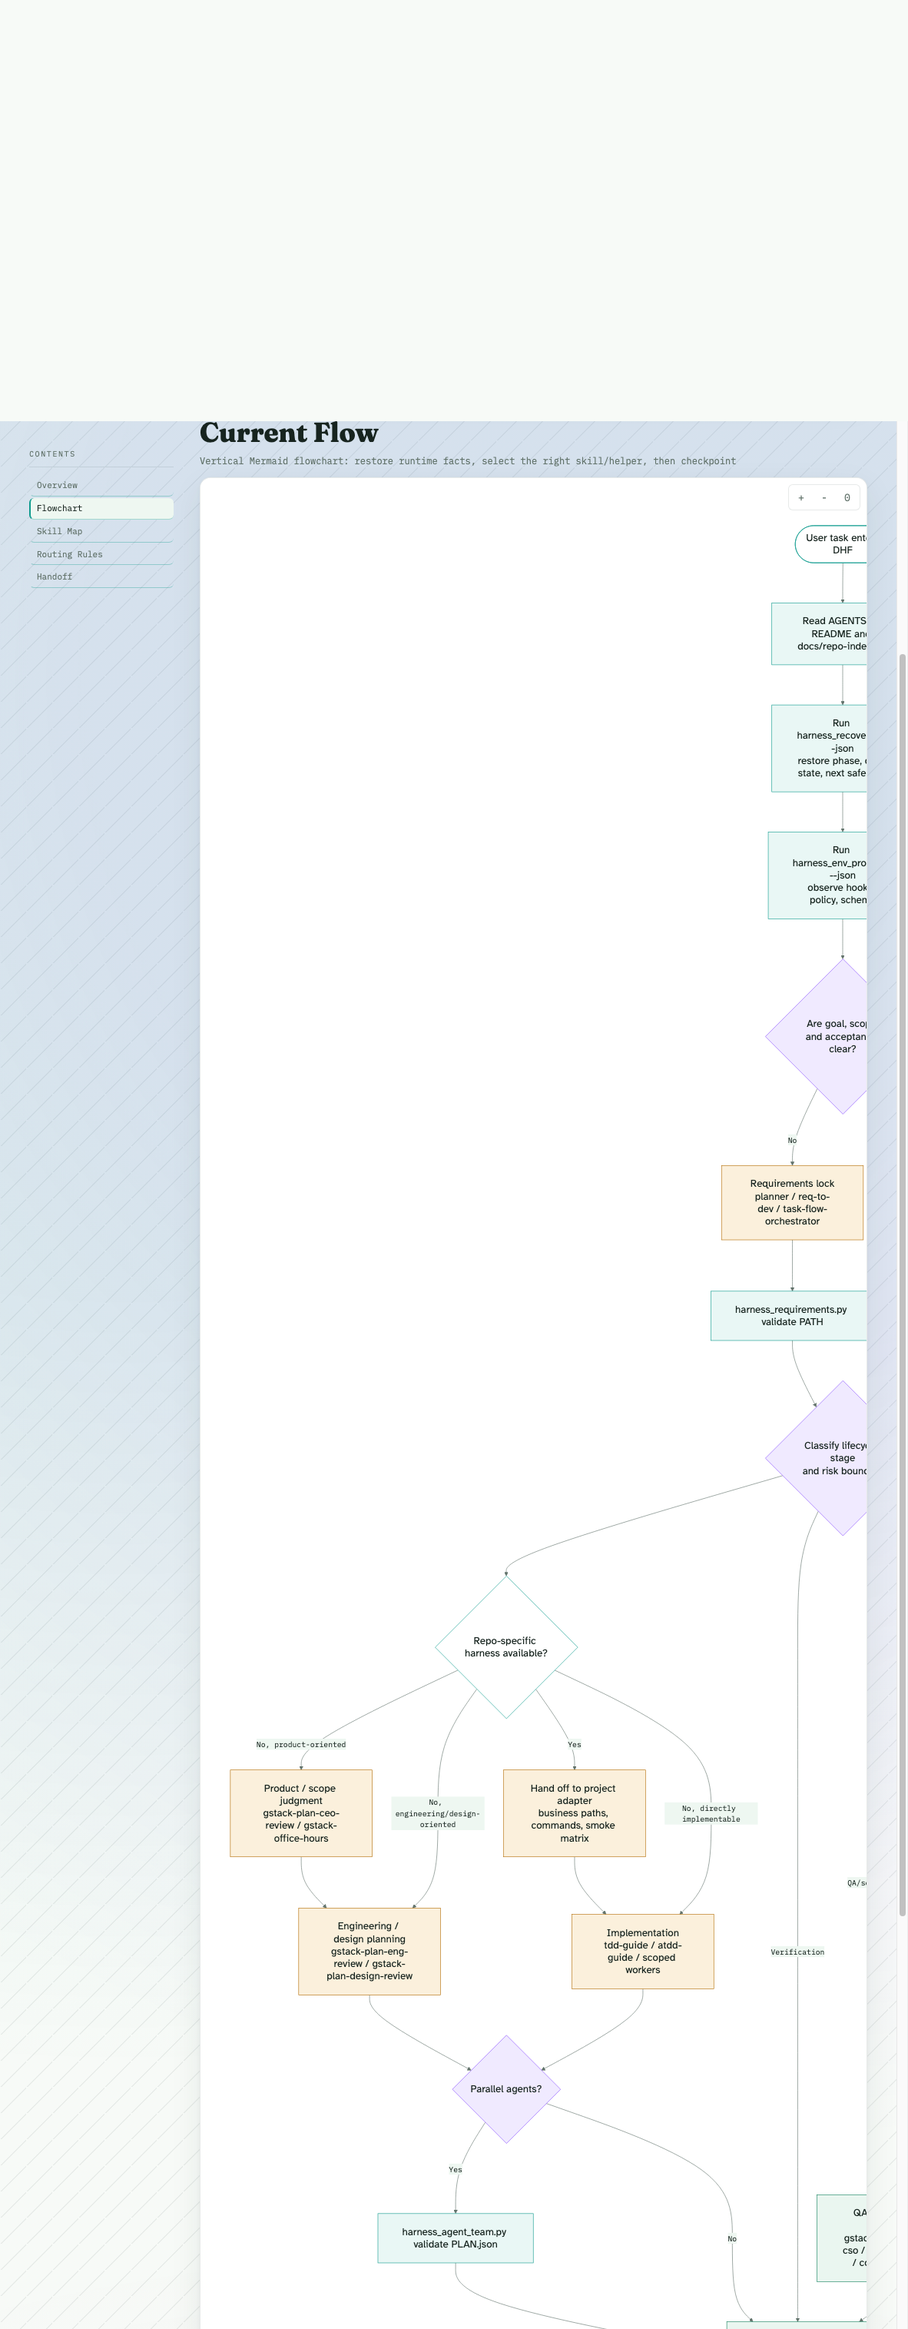
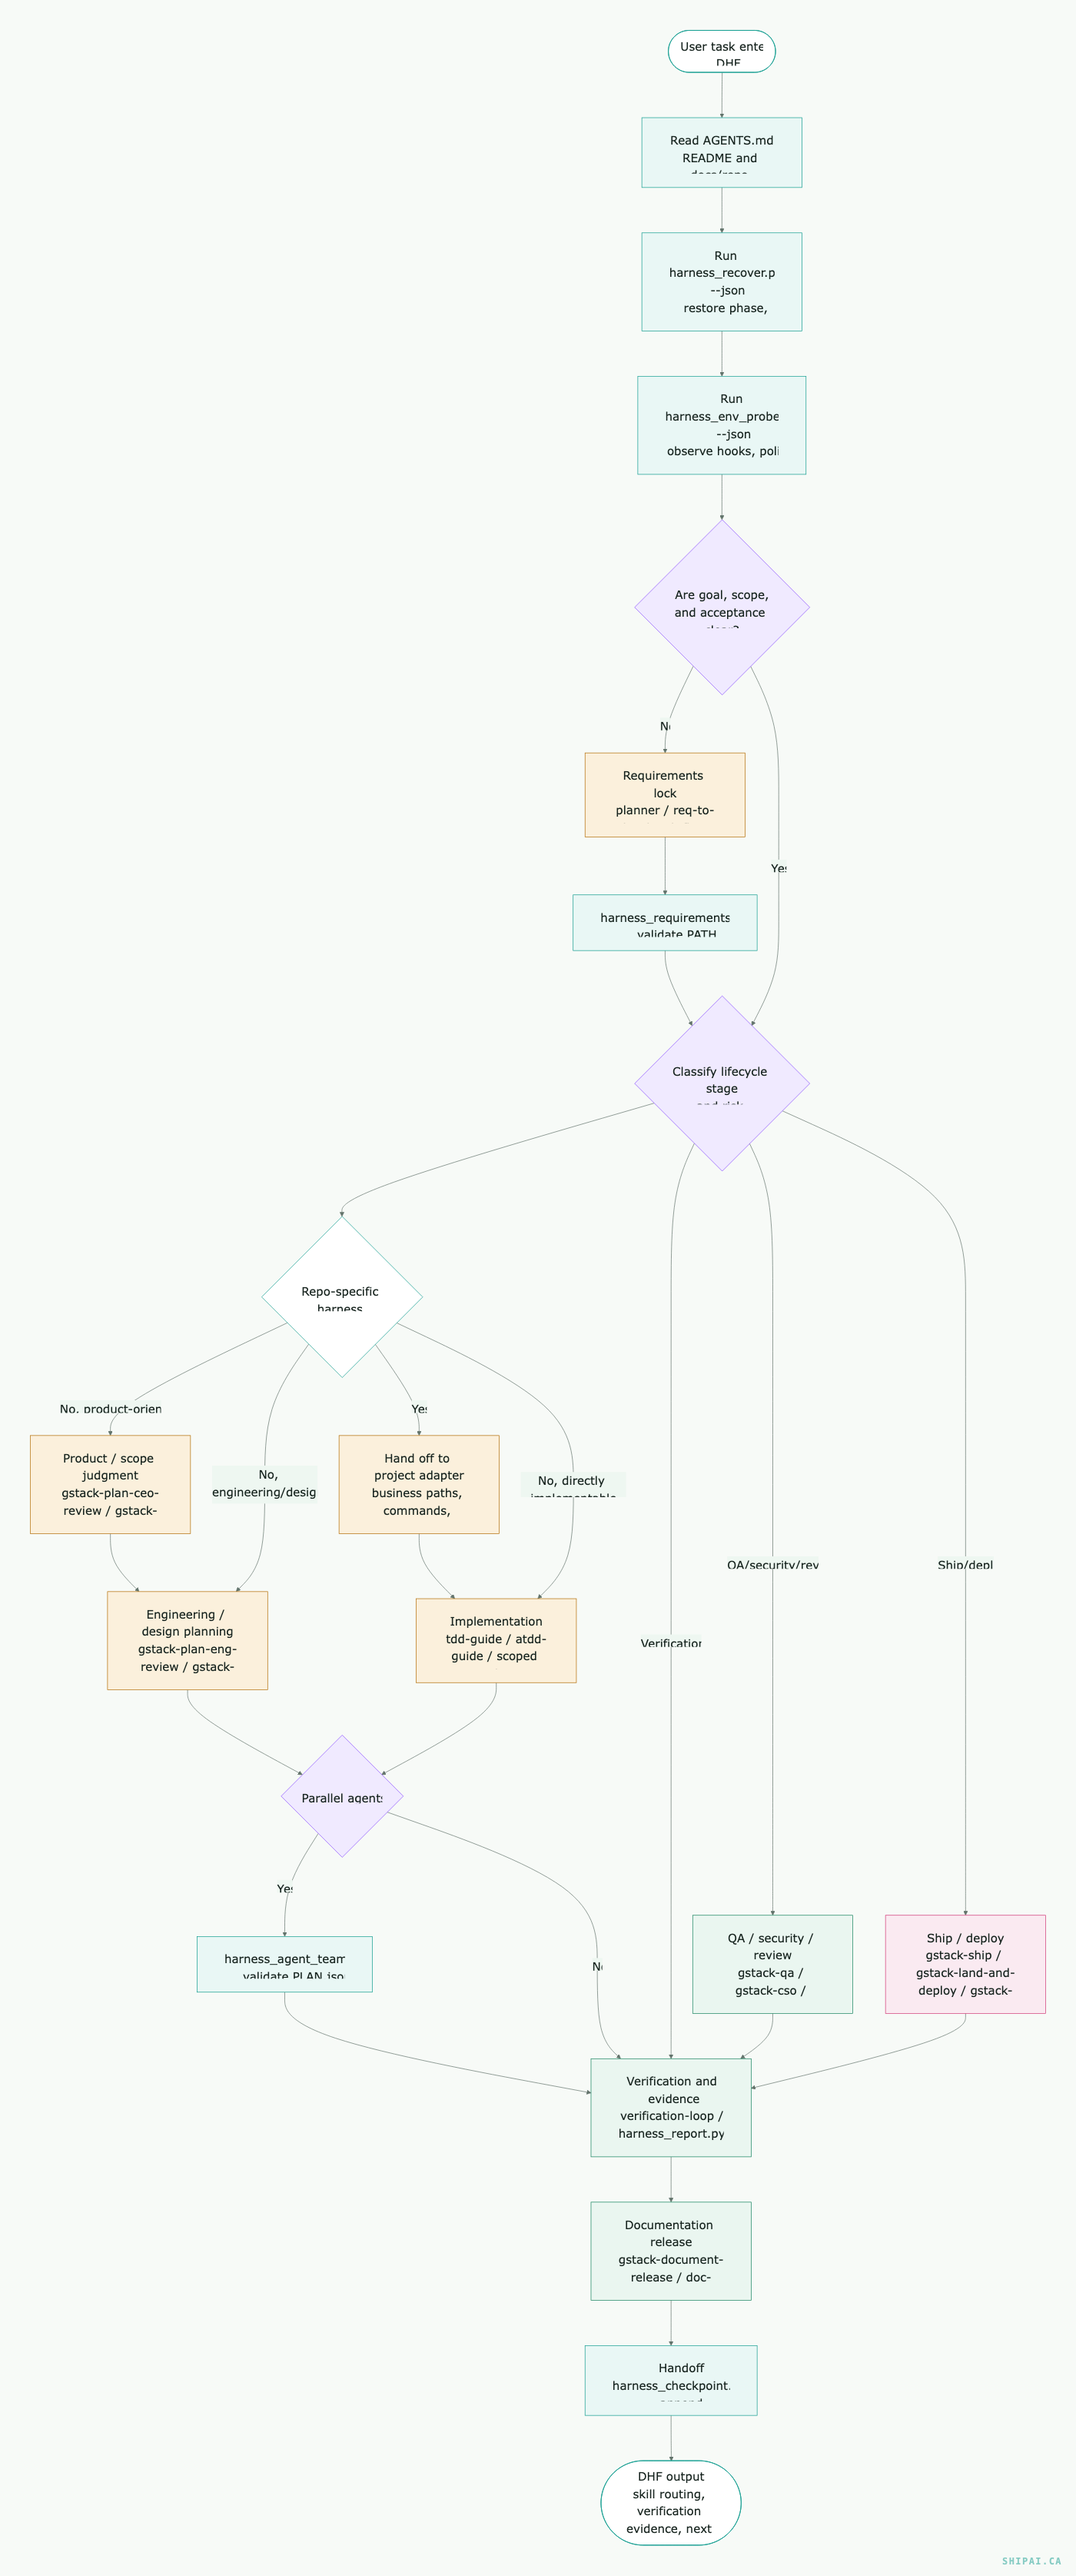
docs: fix dhf flowchart export

diff --git a/docs/project-lifecycle-harness-flow-skills.html b/docs/project-lifecycle-harness-flow-skills.html
@@ -414,7 +414,7 @@
 
     <main class="main">
       <section class="hero" id="overview">
-        <div class="eyebrow">Project Lifecycle Harness / 当前 skill 路由</div>
+        <div class="eyebrow">Delivery Harness Framework / 当前 skill 路由</div>
         <h1>每个生命周期阶段该用哪个 skill。</h1>
         <p class="lead">
           当前 MyCodexEnv 用 <code>project-lifecycle-harness</code> 做通用入口：它恢复运行时事实、探测 Codex 环境、识别生命周期阶段，然后把任务路由给 repo-specific harness、gstack 专项 skill、本地开发/验证 skill 或确定性 runtime helper。Helper 提供可机器检查的执行层，skill 负责认知编排。

diff --git a/docs/project-lifecycle-harness-flow-cn.html b/docs/project-lifecycle-harness-flow-cn.html
@@ -541,7 +541,7 @@
 
     <main class="main">
       <section class="hero animate" id="overview" style="--i:0">
-        <div class="eyebrow">Project Lifecycle Harness</div>
+        <div class="eyebrow">Delivery Harness Framework</div>
         <h1>通用项目生命周期路由流程</h1>
         <p class="subtitle">
           这张图把 <code>project-lifecycle-harness</code> 放在入口层：先恢复状态、确认阶段、选择专门 skill 或 helper，再进入开发、验证、评审、交付和交接。通用 skill 只做跨仓库路由；业务路径交给 repo-specific harness；产品、工程、QA、安全和发布交给 gstack 系列 skill。

diff --git a/docs/index.html b/docs/index.html
@@ -108,11 +108,12 @@
 
     h1 {
       margin: 0;
-      max-width: 980px;
+      max-width: 100%;
       font-family: var(--font-display);
-      font-size: clamp(46px, 8vw, 92px);
+      font-size: clamp(38px, 5.9vw, 76px);
       line-height: 0.94;
       letter-spacing: -0.02em;
+      white-space: nowrap;
     }
 
     .lead {
@@ -217,6 +218,7 @@
       body { padding: 18px; }
       .grid { grid-template-columns: 1fr; }
       .hero { min-height: 0; }
+      h1 { white-space: normal; }
       .footer { flex-direction: column; }
     }
   </style>

diff --git a/scripts/export_mermaid_flowchart_png.py b/scripts/export_mermaid_flowchart_png.py
@@ -1,0 +1,209 @@
+#!/usr/bin/env python3
+from __future__ import annotations
+
+import argparse
+import math
+import re
+import shutil
+import subprocess
+import tempfile
+from pathlib import Path
+from urllib.parse import urlparse
+
+
+DEFAULT_CHROME = (
+    Path.home()
+    / "Library/Caches/ms-playwright/chromium_headless_shell-1223"
+    / "chrome-headless-shell-mac-arm64/chrome-headless-shell"
+)
+
+
+def parse_args() -> argparse.Namespace:
+    parser = argparse.ArgumentParser(
+        description="Export a Mermaid flowchart from an HTML page by extracting the rendered SVG and screenshotting it at the SVG's full height."
+    )
+    parser.add_argument("input_html", help="Path to the source HTML page")
+    parser.add_argument("output_png", help="Path to the output PNG")
+    parser.add_argument("--chrome", default=str(DEFAULT_CHROME), help="Path to the headless Chrome binary")
+    parser.add_argument("--width", type=int, default=1182, help="Target PNG width in CSS pixels before device scale factor")
+    parser.add_argument("--padding", type=int, default=34, help="Outer padding around the SVG in CSS pixels")
+    parser.add_argument("--scale", type=int, default=1, choices=(1, 2), help="Device scale factor")
+    parser.add_argument("--background", default="#f7faf7", help="Background color for the export canvas")
+    parser.add_argument("--watermark", default="ShipAI.ca", help="Watermark text. Use empty string to disable")
+    return parser.parse_args()
+
+
+def dump_dom(chrome: Path, input_html: Path) -> str:
+    tmp_dir = Path(tempfile.mkdtemp(prefix="mermaid-export-dom-"))
+    try:
+        result = subprocess.run(
+            [
+                str(chrome),
+                "--headless=new",
+                "--disable-gpu",
+                "--disable-background-networking",
+                "--no-first-run",
+                f"--user-data-dir={tmp_dir}",
+                "--virtual-time-budget=8000",
+                "--dump-dom",
+                input_html.resolve().as_uri(),
+            ],
+            check=True,
+            capture_output=True,
+            text=True,
+            timeout=20,
+        )
+        return result.stdout
+    finally:
+        shutil.rmtree(tmp_dir, ignore_errors=True)
+
+
+def extract_svg(html: str) -> tuple[str, float, float]:
+    svg_match = re.search(r"(<svg[\s\S]*?</svg>)", html)
+    if not svg_match:
+        raise RuntimeError("rendered Mermaid SVG not found in dumped DOM")
+
+    svg = svg_match.group(1)
+    viewbox_match = re.search(r'viewBox="([0-9.\s-]+)"', svg)
+    if not viewbox_match:
+        raise RuntimeError("SVG viewBox not found")
+
+    values = [float(part) for part in viewbox_match.group(1).split()]
+    if len(values) != 4:
+        raise RuntimeError("SVG viewBox does not contain four numeric values")
+
+    _, _, width, height = values
+    return svg, width, height
+
+
+def build_export_html(svg: str, canvas_width: int, canvas_height: int, inner_width: int, watermark: str, background: str) -> str:
+    watermark_html = ""
+    if watermark:
+        watermark_html = f'<div class="watermark">{watermark}</div>'
+
+    return f"""<!DOCTYPE html>
+<html lang="en">
+<head>
+  <meta charset="UTF-8">
+  <meta name="viewport" content="width=device-width, initial-scale=1.0">
+  <style>
+    * {{ box-sizing: border-box; }}
+    html, body {{
+      margin: 0;
+      width: {canvas_width}px;
+      height: {canvas_height}px;
+      overflow: hidden;
+      background: {background};
+    }}
+    body {{
+      position: relative;
+      padding: 34px;
+      font-family: "Atkinson Hyperlegible", Verdana, sans-serif;
+    }}
+    .stage {{
+      width: {inner_width}px;
+      margin: 0 auto;
+    }}
+    .stage svg {{
+      display: block;
+      width: {inner_width}px;
+      height: auto;
+    }}
+    .watermark {{
+      position: absolute;
+      right: 18px;
+      bottom: 12px;
+      color: #0f9b8e;
+      opacity: 0.48;
+      font: 600 12px "IBM Plex Mono", monospace;
+      letter-spacing: 0.12em;
+      text-transform: uppercase;
+    }}
+  </style>
+</head>
+<body>
+  <div class="stage">
+    {svg}
+  </div>
+  {watermark_html}
+</body>
+</html>
+"""
+
+
+def screenshot_export(chrome: Path, html_path: Path, output_png: Path, width: int, height: int, scale: int) -> None:
+    tmp_dir = Path(tempfile.mkdtemp(prefix="mermaid-export-shot-"))
+    try:
+        subprocess.run(
+            [
+                str(chrome),
+                "--headless=new",
+                "--disable-gpu",
+                "--disable-background-networking",
+                "--no-first-run",
+                f"--user-data-dir={tmp_dir}",
+                f"--window-size={width},{height}",
+                f"--force-device-scale-factor={scale}",
+                "--screenshot=" + str(output_png.resolve()),
+                html_path.resolve().as_uri(),
+            ],
+            check=True,
+            capture_output=True,
+            text=True,
+            timeout=20,
+        )
+    finally:
+        shutil.rmtree(tmp_dir, ignore_errors=True)
+
+
+def main() -> int:
+    args = parse_args()
+    chrome = Path(args.chrome).expanduser()
+    input_html = Path(args.input_html)
+    output_png = Path(args.output_png)
+
+    if not chrome.exists():
+      raise SystemExit(f"ERROR: chrome binary not found: {chrome}")
+    if not input_html.exists():
+      raise SystemExit(f"ERROR: input html not found: {input_html}")
+
+    html = dump_dom(chrome, input_html)
+    svg, view_width, view_height = extract_svg(html)
+
+    inner_width = args.width - (args.padding * 2)
+    scale_ratio = inner_width / view_width
+    export_height = math.ceil((view_height * scale_ratio) + (args.padding * 2))
+
+    export_html = build_export_html(
+        svg=svg,
+        canvas_width=args.width,
+        canvas_height=export_height,
+        inner_width=inner_width,
+        watermark=args.watermark,
+        background=args.background,
+    )
+
+    tmp_html = Path(tempfile.mkdtemp(prefix="mermaid-export-html-")) / "export.html"
+    try:
+        tmp_html.write_text(export_html, encoding="utf-8")
+        output_png.parent.mkdir(parents=True, exist_ok=True)
+        screenshot_export(
+            chrome=chrome,
+            html_path=tmp_html,
+            output_png=output_png,
+            width=args.width,
+            height=export_height,
+            scale=args.scale,
+        )
+    finally:
+        shutil.rmtree(tmp_html.parent, ignore_errors=True)
+
+    print(
+        f"exported {output_png} from {input_html} "
+        f"(viewBox={view_width:.2f}x{view_height:.2f}, css={args.width}x{export_height}, scale={args.scale})"
+    )
+    return 0
+
+
+if __name__ == "__main__":
+    raise SystemExit(main())
